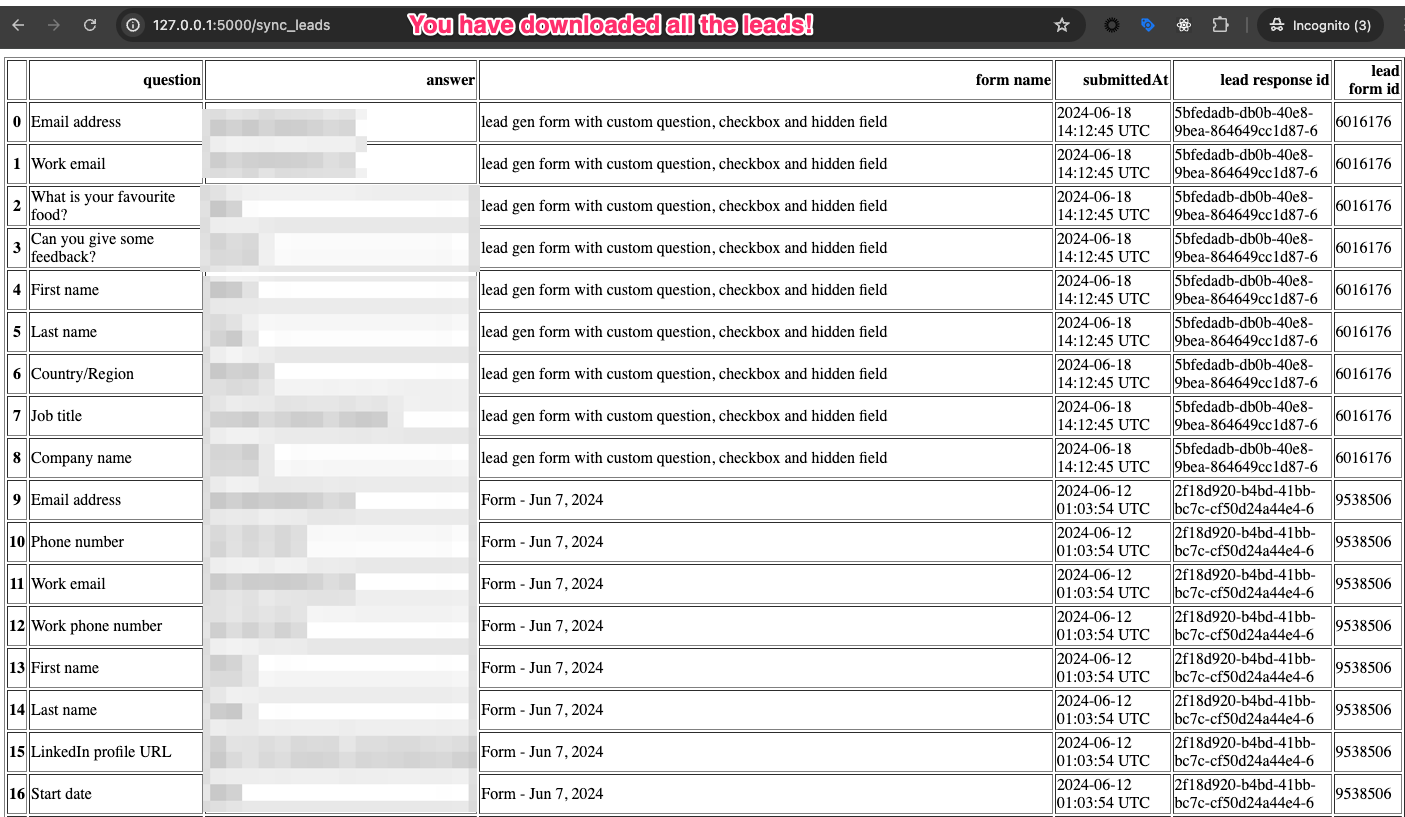
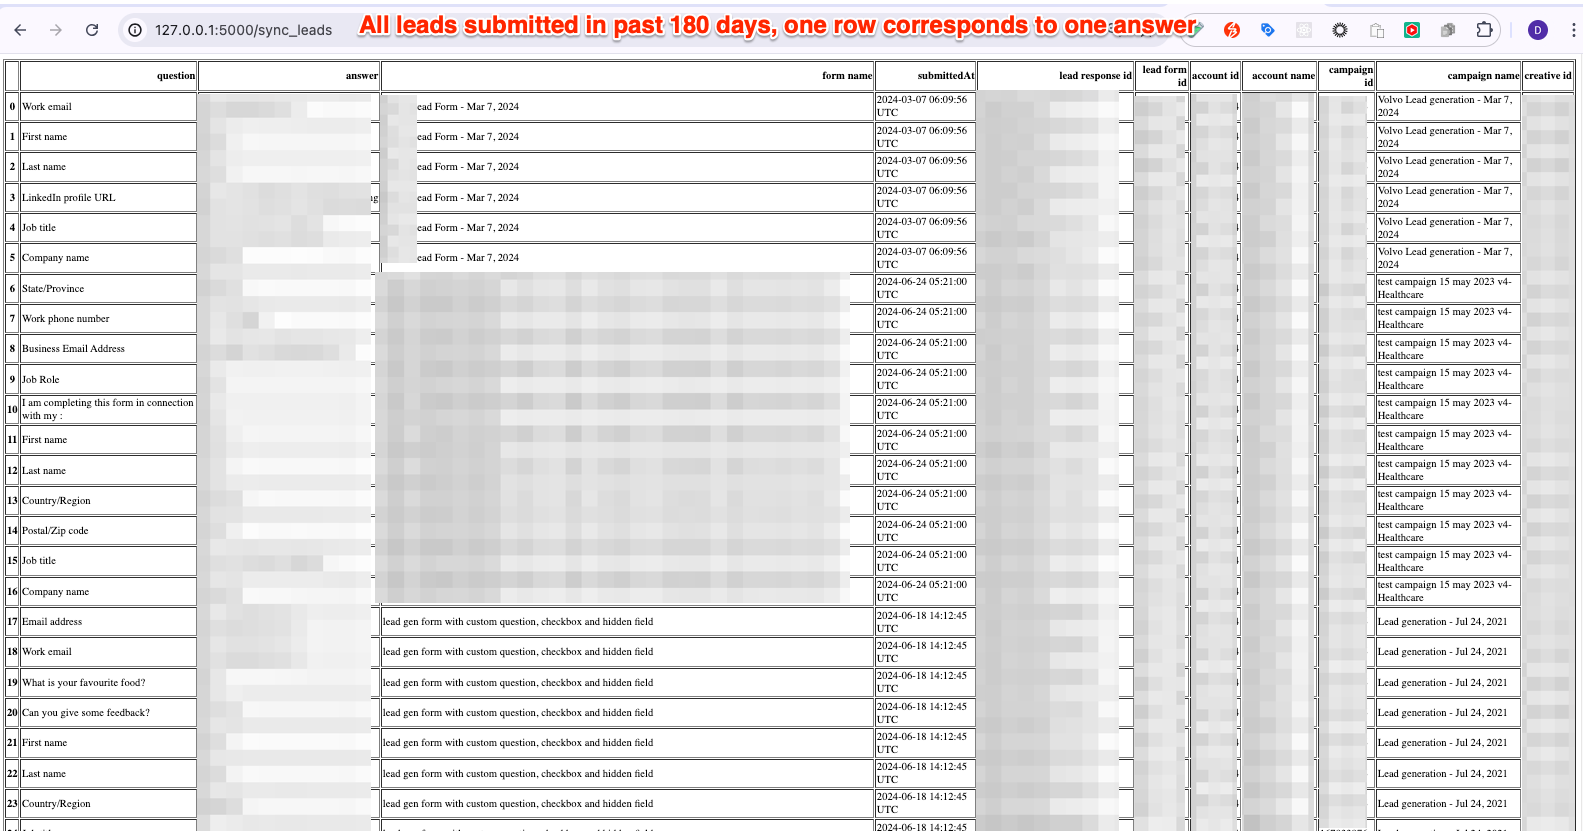
add webhook support

diff --git a/sample.py b/sample.py
@@ -10,6 +10,7 @@ from flask_login import LoginManager, UserMixin, login_required, login_user, log
 from dotenv import dotenv_values
 from pathlib import Path
 import secrets
+import logging
 
 # Determine the correct .env file path
 env_path = Path('.env.local') if Path('.env.local').exists() else Path('.env')
@@ -35,17 +36,22 @@ CLIENT_ID = env_vars.get('CLIENT_ID')
 CLIENT_SECRET = env_vars.get('CLIENT_SECRET')
 REDIRECT_URI = 'http://127.0.0.1:5000/login/authorized'
 API_VERSION = env_vars.get('API_VERSION')
+WEBHOOK_URL = env_vars.get('WEBHOOK_URL')
 AUTHORIZATION_URL = 'https://www.linkedin.com/oauth/v2/authorization'
 TOKEN_URL = 'https://www.linkedin.com/oauth/v2/accessToken'
 
 # Lead sync parameters
 CMT_ACCOUNT_ID = env_vars.get('CMT_ACCOUNT_ID')
-START_TIME = int((datetime.now() - timedelta(days=30)).timestamp() * 1000)
+START_TIME = int((datetime.now() - timedelta(days=180)).timestamp() * 1000)
 END_TIME = int(datetime.now().timestamp() * 1000)
 
 # Login manager setup
 login_manager = LoginManager()
 login_manager.init_app(app)
+
+# Set up logging
+logging.basicConfig(level=logging.INFO)
+logger = logging.getLogger(__name__)
 
 # User class for Flask-Login
 class User(UserMixin):
@@ -66,7 +72,7 @@ def login():
         'response_type': 'code',
         'client_id': CLIENT_ID,
         'redirect_uri': REDIRECT_URI,
-        'state': 'UVFNwd5fGXGnQOt',  # Should be random for security reasons
+        'state': secrets.token_urlsafe(16),  # Securely generated random state
         'scope': 'r_liteprofile,rw_ads,r_ads,r_emailaddress,r_marketing_leadgen_automation,r_organization_admin,r_events'  # Adjust scope based on your needs
     }
     url = requests.Request('GET', AUTHORIZATION_URL, params=params).prepare().url
@@ -99,6 +105,7 @@ def authorized():
         return "Failed to obtain access token.", 400
 
     session['linkedin_token'] = response_data['access_token']
+    logger.info('Access token obtained successfully.')
 
     # Retrieve user profile data
     headers = {
@@ -119,7 +126,7 @@ def authorized():
     last_name = profile_data['localizedLastName']
     email = email_data['elements'][0]['handle~']['emailAddress']
 
-    print(f"{user_id}, {first_name} {last_name}, Logged in with email: {email}")
+    logger.info(f"{user_id}, {first_name} {last_name}, Logged in with email: {email}, access token: {session['linkedin_token']}")
 
     user = User(user_id)
     login_user(user)
@@ -154,12 +161,20 @@ def sync_leads():
         leads_data = response.json().get('elements', [])
         all_extracted_data = []
 
+        print(leads_data)
         for element in leads_data:
             response_id = element.get('id')
             form_id = extract_form_id(element.get('versionedLeadGenFormUrn'))
             form_response = element.get('formResponse', {})
             submitted_at = element.get('submittedAt')  # Get submittedAt timestamp
             answers = form_response.get('answers', [])
+
+            # Extract account id, account name, campaign id, campaign name, and creative id
+            account_id = element.get('owner', {}).get('sponsoredAccount', '').replace('urn:li:sponsoredAccount:', '')
+            account_name = element.get('ownerInfo', {}).get('sponsoredAccountInfo', {}).get('name', '')
+            campaign_id = element.get('leadMetadataInfo', {}).get('sponsoredLeadMetadataInfo', {}).get('campaign', {}).get('id', '').replace('urn:li:sponsoredCampaign:', '')
+            campaign_name = element.get('leadMetadataInfo', {}).get('sponsoredLeadMetadataInfo', {}).get('campaign', {}).get('name', '')
+            creative_id = element.get('associatedEntityInfo', {}).get('associatedCreative', {}).get('id', '').replace('urn:li:sponsoredCreative:', '')
 
             # Convert submittedAt timestamp to human-readable UTC date
             submitted_at_utc = convert_epoch_to_utc(submitted_at)
@@ -169,27 +184,40 @@ def sync_leads():
 
             # Extract question answers
             extracted_data = extract_question_answer(answers, response_id, form_id, questions_info, form_name, submitted_at_utc)
+            for data in extracted_data:
+                data['account id'] = account_id
+                data['account name'] = account_name
+                data['campaign id'] = campaign_id
+                data['campaign name'] = campaign_name
+                data['creative id'] = creative_id
+
             all_extracted_data.extend(extracted_data)
 
         # Convert the extracted data to a pandas DataFrame
         df = pd.DataFrame(all_extracted_data)
-        print(df)
+        logging.info(f"Lead data synced and converted to DataFrame. Number of records: {len(df)}")
+
+        # Post JSON payload to webhook URL if it exists and is not an empty string
+        if WEBHOOK_URL:
+            # Convert DataFrame to JSON
+            json_payload = {"data": df.to_dict(orient='records')}
+            post_to_webhook(WEBHOOK_URL, json_payload)
+        else:
+            logger.warning('WEBHOOK_URL is not defined or is an empty string. Skipping webhook posting.')
 
         return df.to_html()  # Render the DataFrame as an HTML table
 
     except requests.exceptions.RequestException as req_err:
-        print(f"Request error: {req_err}")
+        logger.error(f"Request error: {req_err}")
         if response is not None:
-            print(f"Response status code: {response.status_code}")
-            print(f"Response text: {response.text}")
+            logger.error(f"Response status code: {response.status_code}")
+            logger.error(f"Response text: {response.text}")
         return jsonify({"error": "Request error", "message": str(req_err)}), 500
 
     except requests.exceptions.JSONDecodeError as json_err:
-        print(f"JSON decode error: {json_err}")
-        print(f"Response text: {response.text}")
+        logger.error(f"JSON decode error: {json_err}")
+        logger.error(f"Response text: {response.text}")
         return jsonify({"error": "JSON decode error", "message": str(json_err), "response_text": response.text}), 500
-
-    return redirect(url_for('chat'))
 
 def extract_form_id(versioned_lead_gen_form_urn):
     match = re.search(r':(\d+),', versioned_lead_gen_form_urn)
@@ -240,9 +268,24 @@ def convert_epoch_to_utc(epoch_ms):
             utc_datetime = datetime.utcfromtimestamp(epoch_seconds).replace(tzinfo=pytz.UTC)
             return utc_datetime.strftime('%Y-%m-%d %H:%M:%S UTC')
         except Exception as e:
-            print(f"Error converting epoch to UTC: {e}")
+            logger.error(f"Error converting epoch to UTC: {e}")
 
     return None
+
+def post_to_webhook(url, payload):
+    headers = {
+        'Content-Type': 'application/json',
+        'cache-control': 'no-cache'
+    }
+    try:
+        response = requests.post(url, headers=headers, json=payload)
+        response.raise_for_status()
+        logger.info('Payload successfully posted to webhook.')
+    except requests.exceptions.RequestException as req_err:
+        logger.error(f"Request error: {req_err}")
+        if response is not None:
+            logger.error(f"Response status code: {response.status_code}")
+            logger.error(f"Response text: {response.text}")
 
 if __name__ == "__main__":
     app.run(host='0.0.0.0', port=5000)

diff --git a/README.md b/README.md
@@ -31,25 +31,55 @@ Developer is welcome to build on top of it to add more functionality and polish 
 4. Install required Python library in virtual environment
    `pip install -r requirements.txt`
 
-5. Copy your client id, client secret from developer portal to .env file. You should set the API_VERSION to the latest one according to [LinkedIn API documentation](https://learn.microsoft.com/en-us/linkedin/marketing/versioning?view=li-lms-2024-06) in the format "YYYYMM", it should NOT be older than 12 months from current date. Just put it in HTTP header "Linkedin-Version". Add your LinkedIn Ads account id in .env file.
+5. Copy your client id, client secret from developer portal to .env file. You should set the API_VERSION to the latest one according to [LinkedIn API documentation](https://learn.microsoft.com/en-us/linkedin/marketing/versioning?view=li-lms-2024-06) in the format "YYYYMM", it should NOT be older than 12 months from current date, for example :
 
-6. Provision redirect_url (http://127.0.0.1:5000/login/authorized) in the apps under LinkedIn developer portal. This is NECESSARY to complete the OAuth 3-legged redirect flow.
+```
+CLIENT_ID=abcdefg
+CLIENT_SECRET=abcdefg
+API_VERSION=202406
+```
+
+6. Add your LinkedIn Ads account id in .env file <CMT_ACCOUNT_ID>, you must provide 1 Ads account id, for example :
+
+```
+CMT_ACCOUNT_ID=12345678
+```
+
+7. [OPTIONAL] If you want to post the leads to an external webhook URL, please add the URL in .env file <WEBHOOK_URL>, for example :
+
+```
+
+WEBHOOK_URL=<YOUR_WEBHOOK_URL>
+
+```
+
+- If you don't want to post the leads to external webhook URL, simply leave <WEBHOOK_URL> line blank :
+
+```
+
+WEBHOOK_URL=
+
+```
+
+Consider create a free webhook from this site for testing : https://webhook.site/
+
+8. Provision redirect_url (http://127.0.0.1:5000/login/authorized) in the apps under LinkedIn developer portal. This is NECESSARY to complete the OAuth 3-legged redirect flow.
    ![redirect_url](screenshots/redirect_url.png)
 
-7. Run flask app by
+9. Run flask app by
    `flask --app sample run`
 
-8. Open Chrome web browser in incognito window (or clear all caches and cookies from linkedin.com, www.linkedin.com, 127.0.0.1)
-   `http://127.0.0.1:5000/`
+10. Open Chrome web browser in incognito window (or clear all caches and cookies from linkedin.com, www.linkedin.com, 127.0.0.1)
+    `http://127.0.0.1:5000/`
 
-The apps will print the current logged in user and lead responses in last 180 days of LinkedIn Ads account on console, and leads will be sent to browser.
+The apps will print the current logged in user and lead responses in last 180 days of LinkedIn Ads account on console, and leads will be sent to browser, optionally it will post the leads to external webhook URL (if you have configured webhook URL in .env file).
 
 ## Limitations and Further Enhancements
 
 1. To further enhance the apps, developer may persist the access token in the apps and implement [token refresh](https://learn.microsoft.com/en-gb/linkedin/shared/authentication/authorization-code-flow?context=linkedin%2Fcontext&tabs=HTTPS1#step-5-refresh-access-token) routine before existing access token expires
-2. Developer may store the leads in database or sync downloded leads into CRM
-3. Developer may implement the UI logic to sync leads with muliple Ads accounts
-4. Developer may implement the UI logic to specifiy time period of leads sync and implement a scheduler to run the apps
+2. Developer may store the leads in database or sync leads into CRM
+3. Developer may implement the UI logic to sync leads from muliple Ads accounts
+4. Developer may implement the UI logic to adjust the time period of leads (other than 180 days) and implement a scheduler to run the apps periodically (daily, weekly)
 
 ## Troubleshooting
 
@@ -65,3 +95,5 @@ The apps will print the current logged in user and lead responses in last 180 da
 ![allow_access](screenshots/allow_access.png)
 
 ![sync_lead](screenshots/sync_lead.png)
+
+![webhook_url](screenshots/webhook%20url.png)
